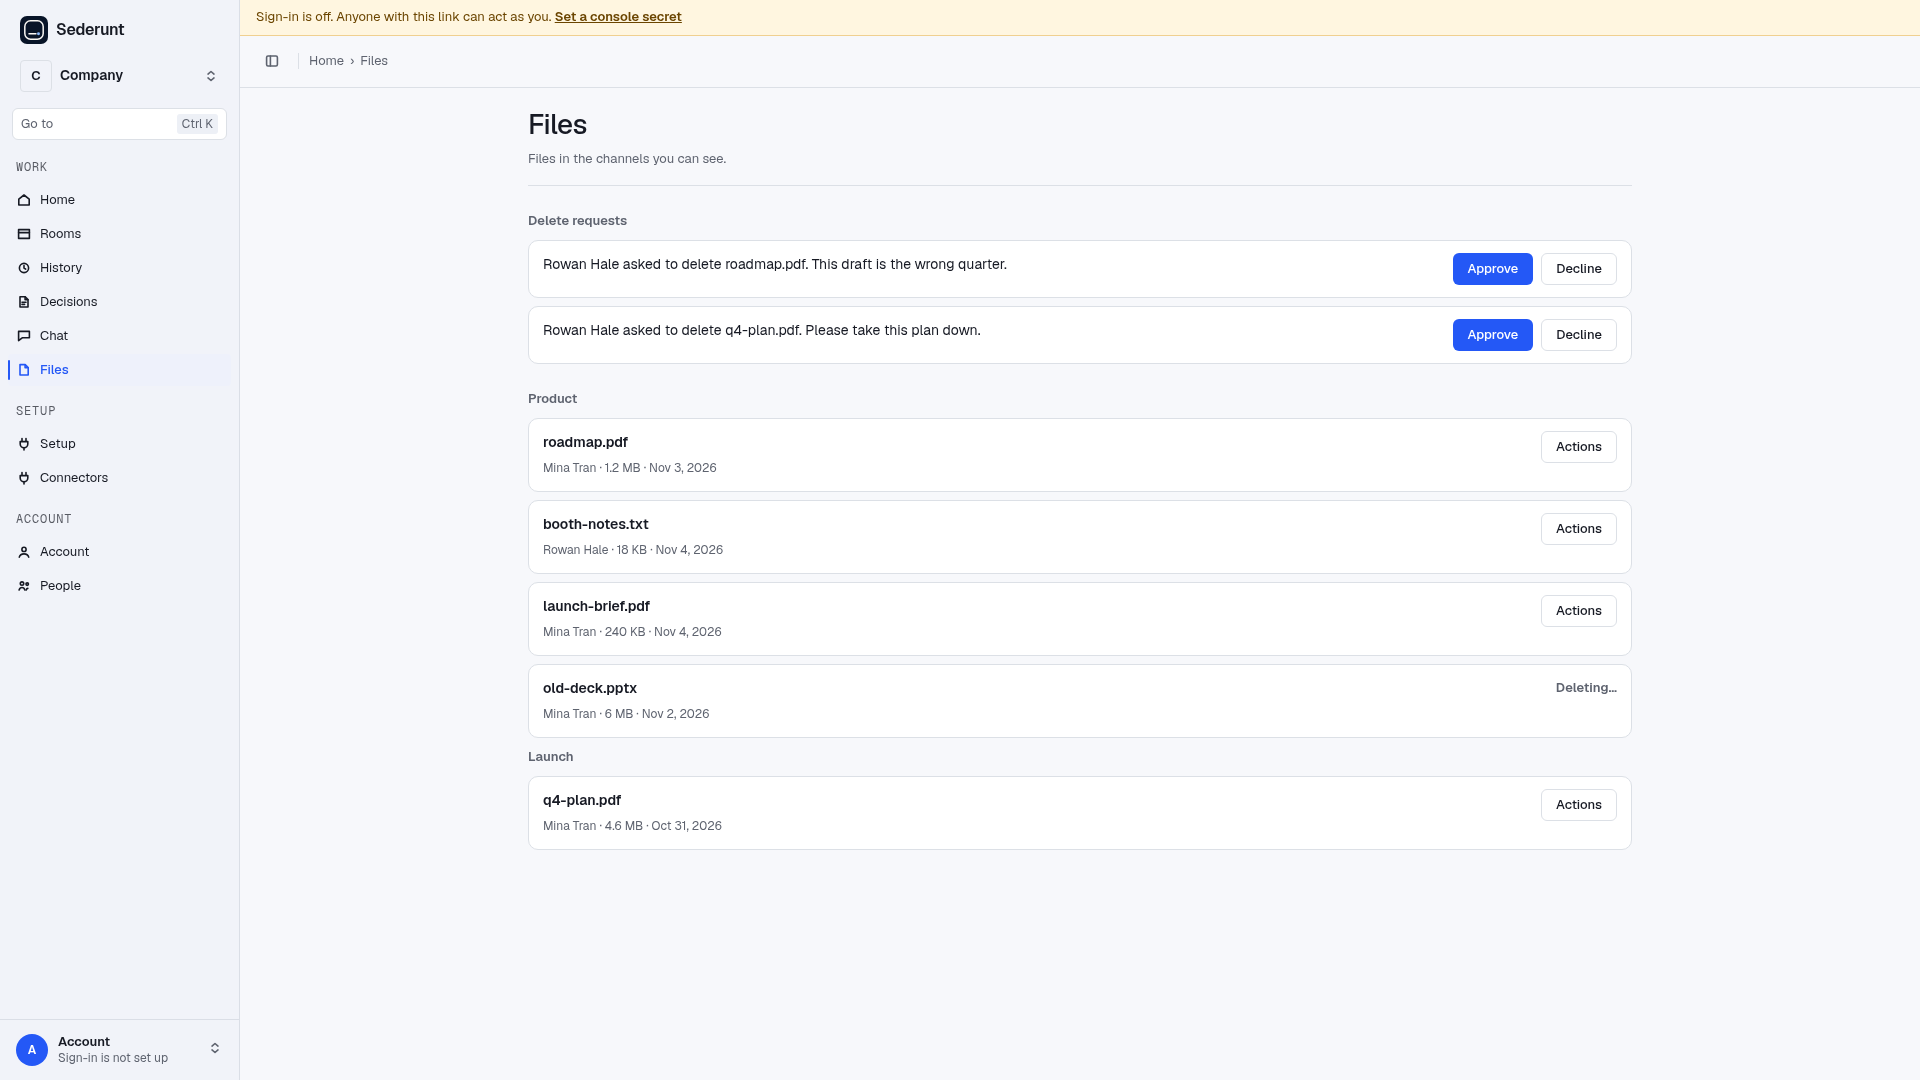
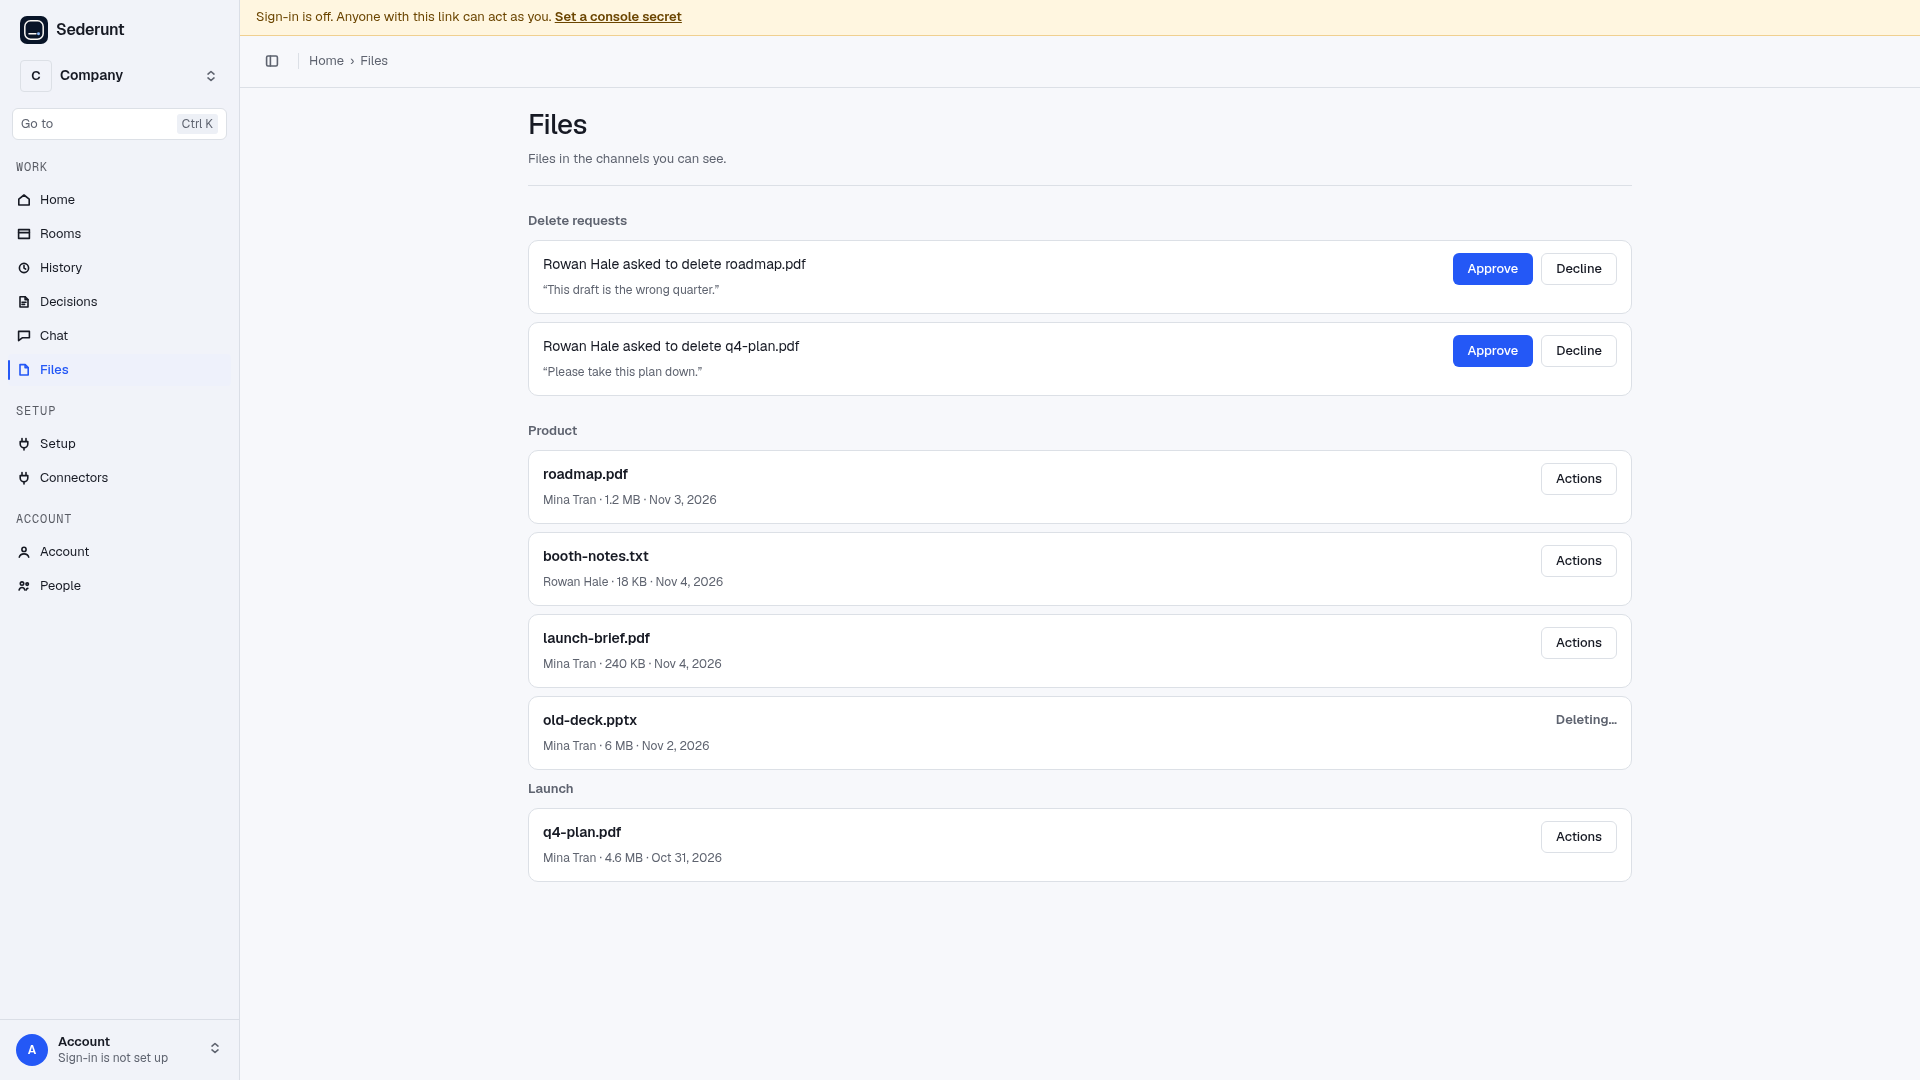
fix(files): show the delete reason on its own line

Changed region(s): [[0.2812, 0.2444, 0.8438, 0.7944], [0.8125, 0.3972, 0.8438, 0.6722], [0.8125, 0.7333, 0.8438, 0.7944]]

diff --git a/src/console-page.js b/src/console-page.js
@@ -7134,9 +7134,18 @@ if (sessionWhen && sessionWhen.dataset.at) {
     rows.forEach(function (request) {
       var card = document.createElement("article");
       card.className = answering ? "file-request" : "file-unanswered";
-      var copy = document.createElement("p");
+      var copy = document.createElement("div");
+      copy.className = "file-request-copy";
       var who = request.requestedByName || "Someone";
-      copy.textContent = who + " asked to delete " + (request.fileName || "a file") + (request.reason ? ". " + request.reason : "");
+      var ask = document.createElement("p");
+      ask.textContent = who + " asked to delete " + (request.fileName || "a file");
+      copy.append(ask);
+      if (request.reason) {
+        var reason = document.createElement("p");
+        reason.className = "file-meta";
+        reason.textContent = "\u201c" + request.reason + "\u201d";
+        copy.append(reason);
+      }
       var actions = document.createElement("div");
       actions.className = "file-request-actions";
       if (answering) {

diff --git a/src/console.css b/src/console.css
@@ -5788,7 +5788,9 @@ body.ob-page {
 .file-copy { min-width: 0; flex: 1; }
 .file-name { margin: 0; font-weight: 600; overflow-wrap: anywhere; }
 .file-meta, #files-error { margin: 4px 0 0; font-size: 12px; color: var(--muted-foreground); overflow-wrap: anywhere; }
-.file-request p, .file-unanswered p { margin: 0; min-width: 0; flex: 1; overflow-wrap: anywhere; }
+.file-request-copy { min-width: 0; flex: 1; }
+.file-request p, .file-unanswered p { margin: 0; min-width: 0; overflow-wrap: anywhere; }
+.file-request .file-meta, .file-unanswered .file-meta { margin-top: 4px; }
 .file-actions { position: relative; flex: none; }
 .file-request-actions, .file-unanswered .file-request-actions { display: flex; flex-wrap: wrap; gap: 8px; }
 .files-deleting { margin: 0; color: var(--muted-foreground); font-size: 13px; font-weight: 600; }
